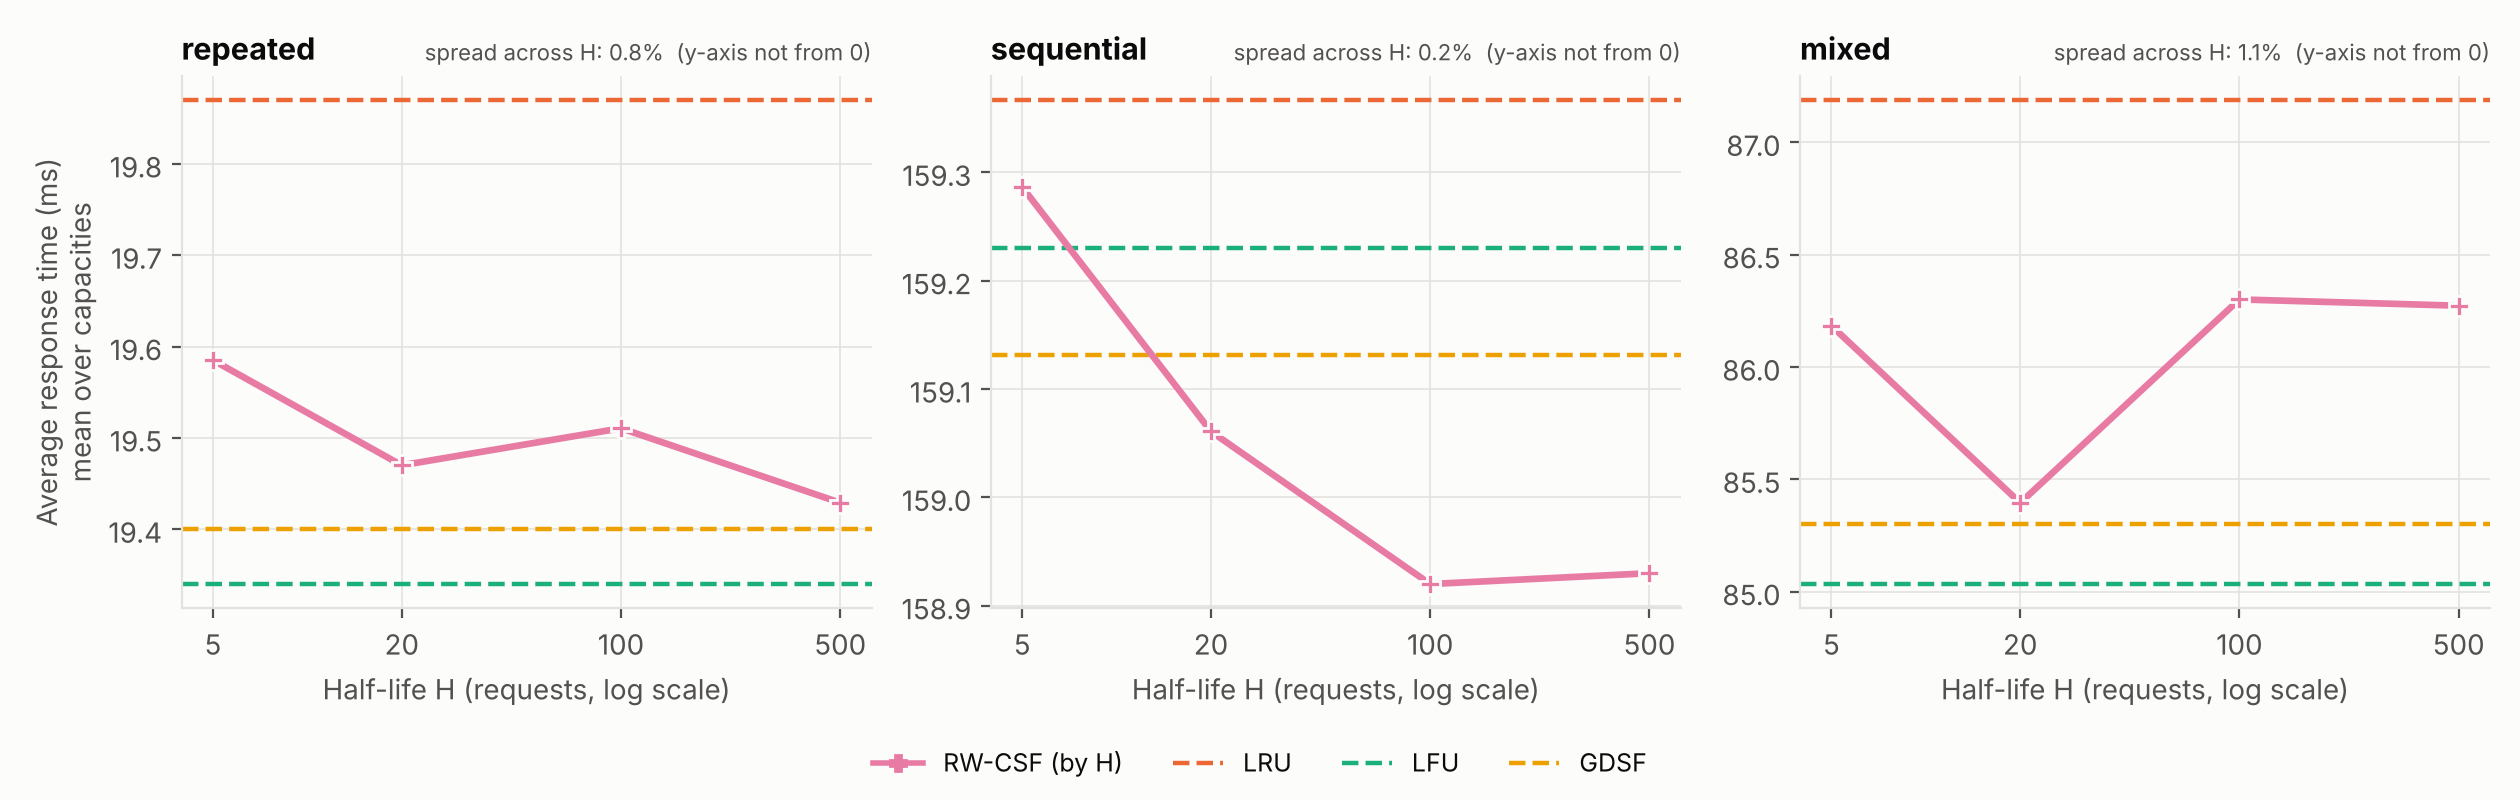
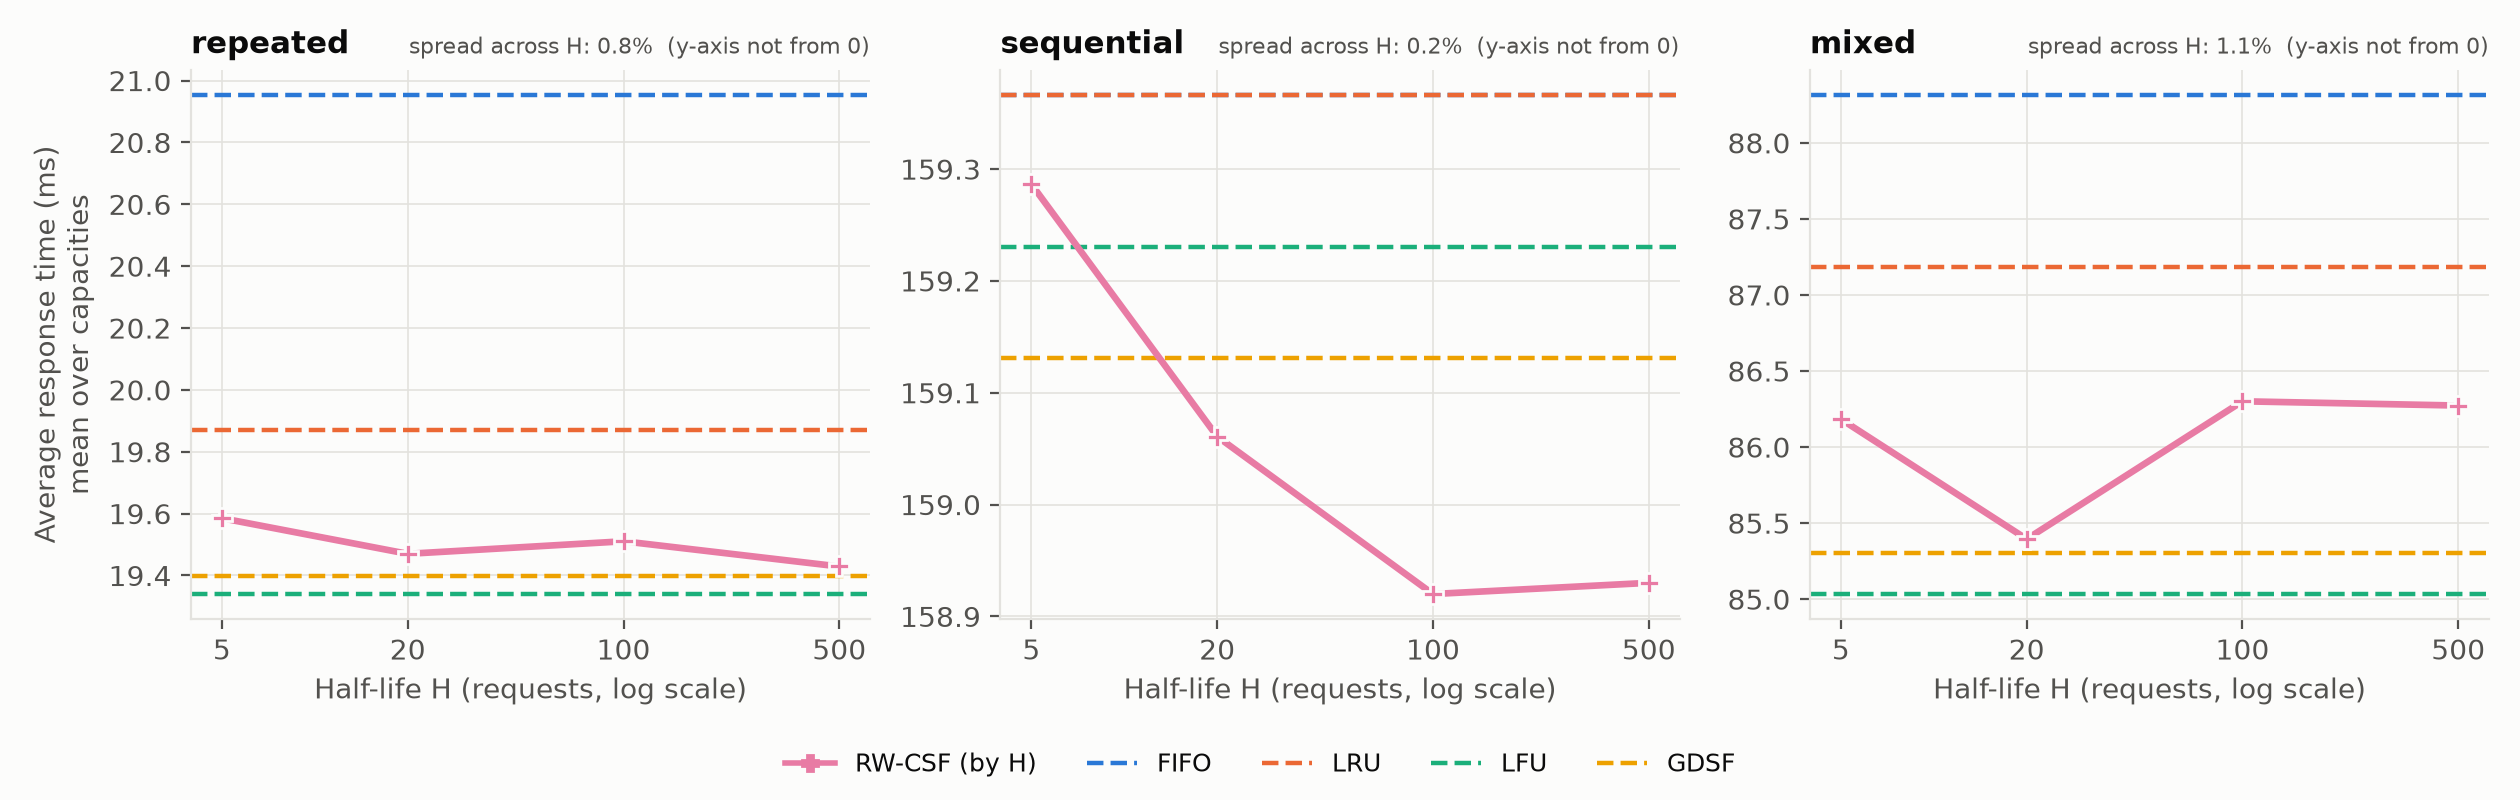
fix: lock drift parameters and plot FIFO in H sensitivity

diff --git a/d_experiments/run_drift.py b/d_experiments/run_drift.py
@@ -38,6 +38,7 @@ from cache_simulator.metrics import MetricsAccumulator
 from cache_simulator.rwcsf import RWCSFPolicy
 
 DEFAULT_SEEDS = (20261111, 20261112, 20261113, 20261114, 20261115)
+PREREGISTERED_HALF_LIFE = 20.0
 PHASES = 3
 PHASE_LEN = 480
 HOT_PROB = 0.85
@@ -226,15 +227,29 @@ def check_predictions(table: list[dict]) -> dict[str, dict]:
     }
 
 
+def validate_preregistered(parser, seeds, half_life: float) -> None:
+    """Refuse direct runs that no longer test the preregistered design."""
+    if half_life != PREREGISTERED_HALF_LIFE:
+        parser.error(
+            f"the confirmatory drift test fixes H at {PREREGISTERED_HALF_LIFE:g}; "
+            "do not pass a different --half-life")
+    if set(seeds) != set(DEFAULT_SEEDS):
+        parser.error(
+            "the confirmatory drift test uses the five preregistered seeds "
+            + ", ".join(str(seed) for seed in DEFAULT_SEEDS))
+
+
 def main() -> int:
     parser = argparse.ArgumentParser(description=__doc__.split("\n")[0])
     parser.add_argument("--output-dir", type=Path, required=True)
-    parser.add_argument("--half-life", type=float, default=20.0,
-                        help="the H chosen by run_h_tuning.py (do not retune)")
-    parser.add_argument("--seeds", type=int, nargs="+", default=list(DEFAULT_SEEDS))
+    parser.add_argument("--half-life", type=float, default=PREREGISTERED_HALF_LIFE,
+                        help="fixed at 20 by DRIFT_PREREGISTRATION.md; other values are refused")
+    parser.add_argument("--seeds", type=int, nargs="+", default=list(DEFAULT_SEEDS),
+                        help="fixed at the five preregistered seeds; other sets are refused")
     args = parser.parse_args()
     validate_formal_seeds(parser, args.seeds)
     validate_half_life(parser, args.half_life)
+    validate_preregistered(parser, args.seeds, args.half_life)
     rows = run_all(args.output_dir, args.seeds, args.half_life)
     table = aggregate(rows)
     write_csv(args.output_dir / "drift_table.csv", TABLE_FIELDS, table)

diff --git a/d_experiments/make_plots.py b/d_experiments/make_plots.py
@@ -181,6 +181,15 @@ def per_client_bars(per_client, capacity, path) -> Path:
     return Path(path)
 
 
+H_REFERENCE_POLICIES = ("FIFO", "LRU", "LFU", "GDSF")
+
+
+def reference_policies(rows) -> tuple[str, ...]:
+    """Baselines planned for the H-sensitivity plot and present in the table."""
+    present = {r["policy"] for r in rows}
+    return tuple(policy for policy in H_REFERENCE_POLICIES if policy in present)
+
+
 def h_sensitivity(tuning_dir: Path, path: Path) -> None:
     rows = read_csv(tuning_dir / "summary.csv")
     workloads = workloads_in(rows)
@@ -196,7 +205,7 @@ def h_sensitivity(tuning_dir: Path, path: Path) -> None:
               for h in h_values]
         ax.plot(h_values, ys, color=COLORS["CUSTOM"], marker=MARKERS["CUSTOM"], lw=2.4,
                 markersize=7, markeredgecolor=SURFACE, zorder=3)
-        for policy in ("LRU", "LFU", "GDSF"):
+        for policy in reference_policies(rows):
             if (policy, workload) in per:
                 v = per[(policy, workload)]
                 ax.axhline(sum(v) / len(v), color=COLORS[policy], lw=1.6, ls="--", zorder=2)
@@ -214,8 +223,8 @@ def h_sensitivity(tuning_dir: Path, path: Path) -> None:
     handles = [plt.Line2D([0], [0], color=COLORS["CUSTOM"], marker="P", lw=2,
                           label="RW-CSF (by H)")]
     handles += [plt.Line2D([0], [0], color=COLORS[p], lw=1.6, ls="--", label=LABELS[p])
-                for p in ("LRU", "LFU", "GDSF")]
-    fig.legend(handles=handles, loc="lower center", ncol=4, fontsize=9)
+                for p in reference_policies(rows)]
+    fig.legend(handles=handles, loc="lower center", ncol=len(handles), fontsize=9)
     fig.tight_layout(rect=(0, 0.08, 1, 1))
     fig.savefig(path, dpi=200)
     plt.close(fig)

diff --git a/tests/test_drift.py b/tests/test_drift.py
@@ -1,4 +1,5 @@
 import math
+import subprocess
 import sys
 import tempfile
 import unittest
@@ -46,6 +47,25 @@ class TraceTests(unittest.TestCase):
     def test_tuning_seed_refused(self):
         self.assertEqual(TUNING_SEED, 31415)
         self.assertNotIn(31415, rd.DEFAULT_SEEDS)
+
+
+class PreregistrationTests(unittest.TestCase):
+    def run_cli(self, *args):
+        script = Path(__file__).resolve().parents[1] / "d_experiments" / "run_drift.py"
+        with tempfile.TemporaryDirectory() as tmp:
+            return subprocess.run(
+                [sys.executable, str(script), "--output-dir", tmp, *args],
+                capture_output=True, text=True)
+
+    def test_direct_run_refuses_other_half_life(self):
+        result = self.run_cli("--half-life", "5")
+        self.assertNotEqual(result.returncode, 0)
+        self.assertIn("fixes H at 20", result.stderr)
+
+    def test_direct_run_refuses_subset_of_preregistered_seeds(self):
+        result = self.run_cli("--seeds", "20261111", "20261112")
+        self.assertNotEqual(result.returncode, 0)
+        self.assertIn("five preregistered seeds", result.stderr)
 
 
 class SimulationTests(unittest.TestCase):

diff --git a/tests/test_plot_labels.py b/tests/test_plot_labels.py
@@ -6,7 +6,8 @@ from pathlib import Path
 ROOT = Path(__file__).resolve().parents[1]
 sys.path.insert(0, str(ROOT / "d_experiments"))
 from make_plots import (  # noqa: E402
-    POLICIES, per_client_bars, per_client_figure_path, single_workload,
+    POLICIES, per_client_bars, per_client_figure_path, reference_policies,
+    single_workload,
 )
 
 
@@ -40,6 +41,11 @@ class WorkloadLabelTests(unittest.TestCase):
             returned = per_client_bars(rows, 32.0, path)
             self.assertEqual(returned, path)
             self.assertTrue(path.is_file())
+
+    def test_h_sensitivity_includes_fifo_reference(self):
+        rows = [{"policy": policy, "workload": "mixed", "average_response_ms": "1"}
+                for policy in ("RWCSF_H20", "FIFO", "LRU", "LFU", "GDSF")]
+        self.assertIn("FIFO", reference_policies(rows))
 
 
 if __name__ == "__main__":
